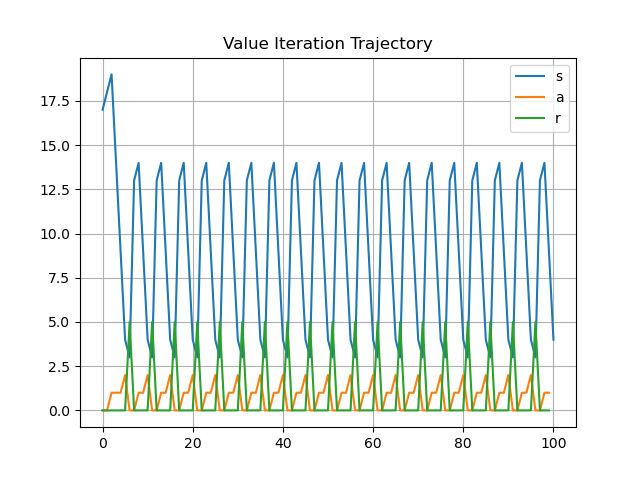
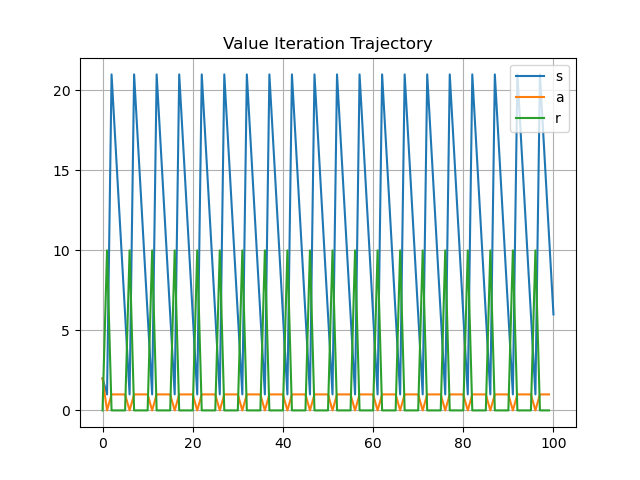
fix: vi

diff --git a/algorithms/value_iteration.py b/algorithms/value_iteration.py
@@ -30,22 +30,29 @@ class ValueIteration:
 
         V_history: list[float] = [np.mean(V)]
 
-        Delta: float = 0
-        while Delta >= self.theta:
+        while True:
+            Delta: float = 0
             for s in range(self.num_states):
                 v: float = V[s]
                 V[s] = np.max(
-                    np.sum(
-                        [
-                            p(s1, s, a) * (r(s, a) + gamma * V[s1])
-                            for s1 in range(self.num_states)
-                        ]
-                    )
-                    for a in range(self.num_actions)
+                    [
+                        np.sum(
+                            [
+                                p(s1, s, a) * (r(s, a) + gamma * V[s1])
+                                for s1 in range(self.num_states)
+                            ]
+                        )
+                        for a in range(self.num_actions)
+                    ]
                 )
                 Delta = max(Delta, abs(v - V[s]))
 
             V_history.append(np.mean(V))
+
+            if Delta < self.theta:
+                break
+            else:
+                pass
 
         policy = np.zeros(self.num_states)
 
